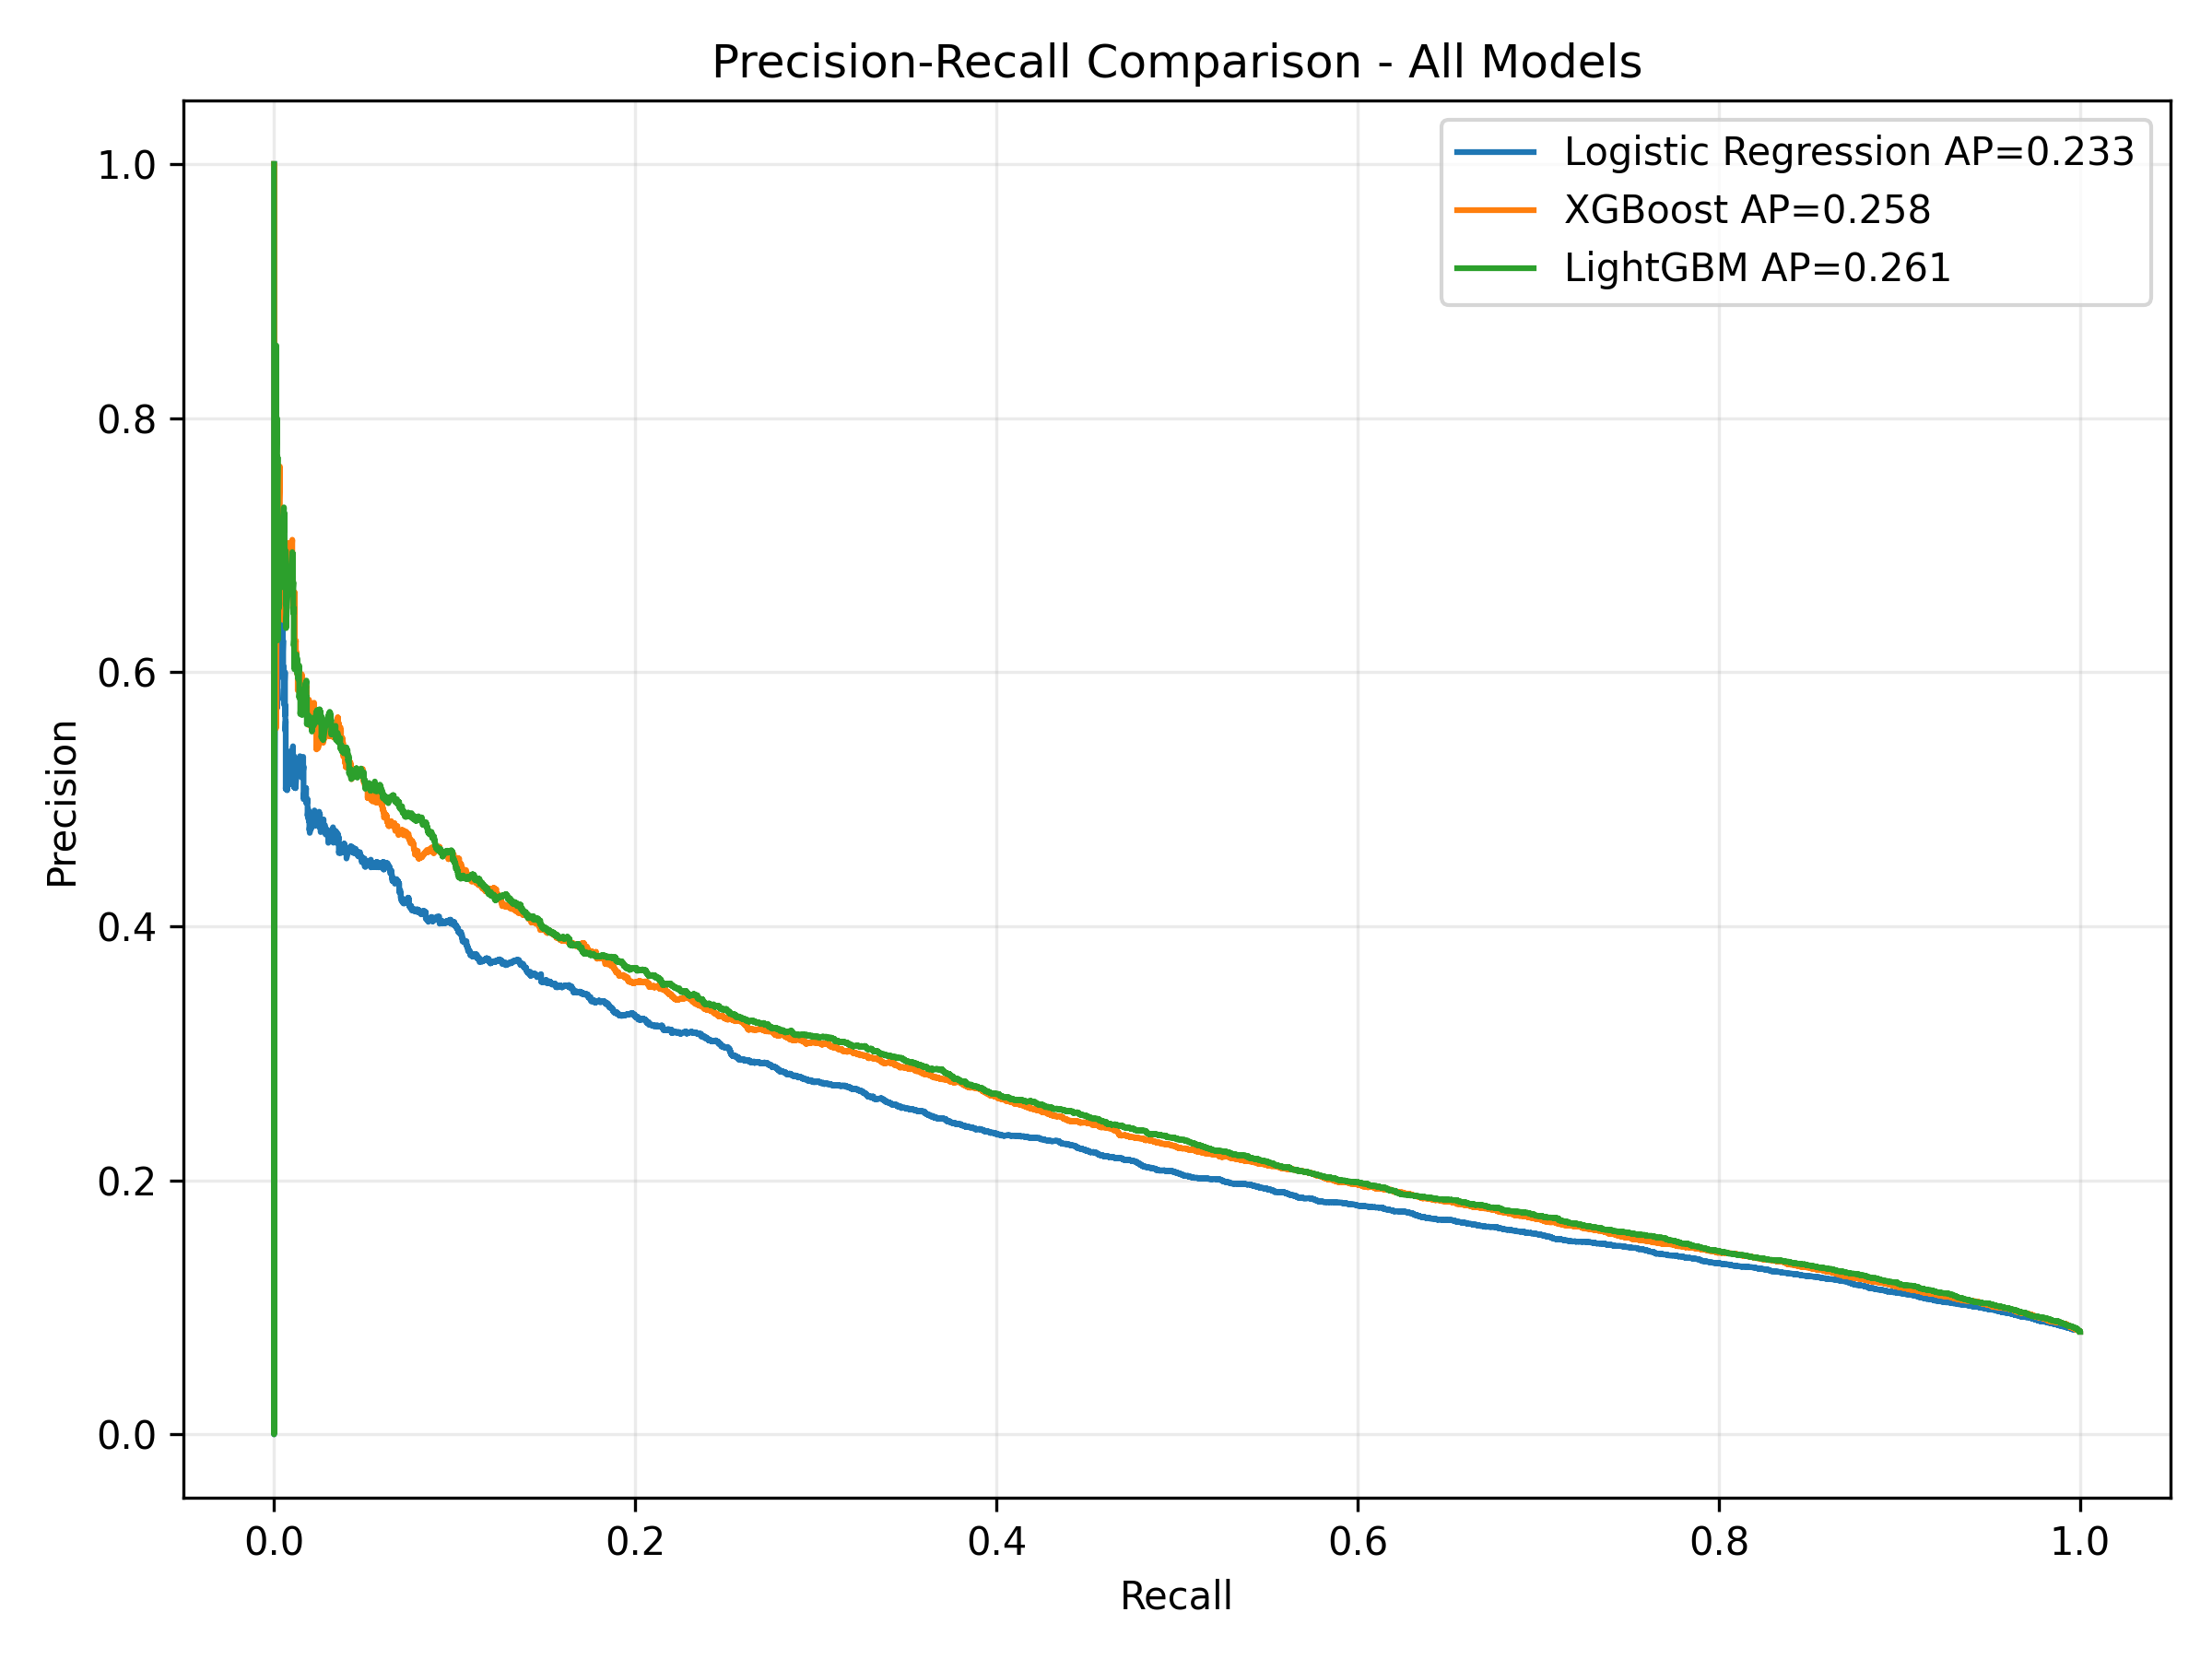
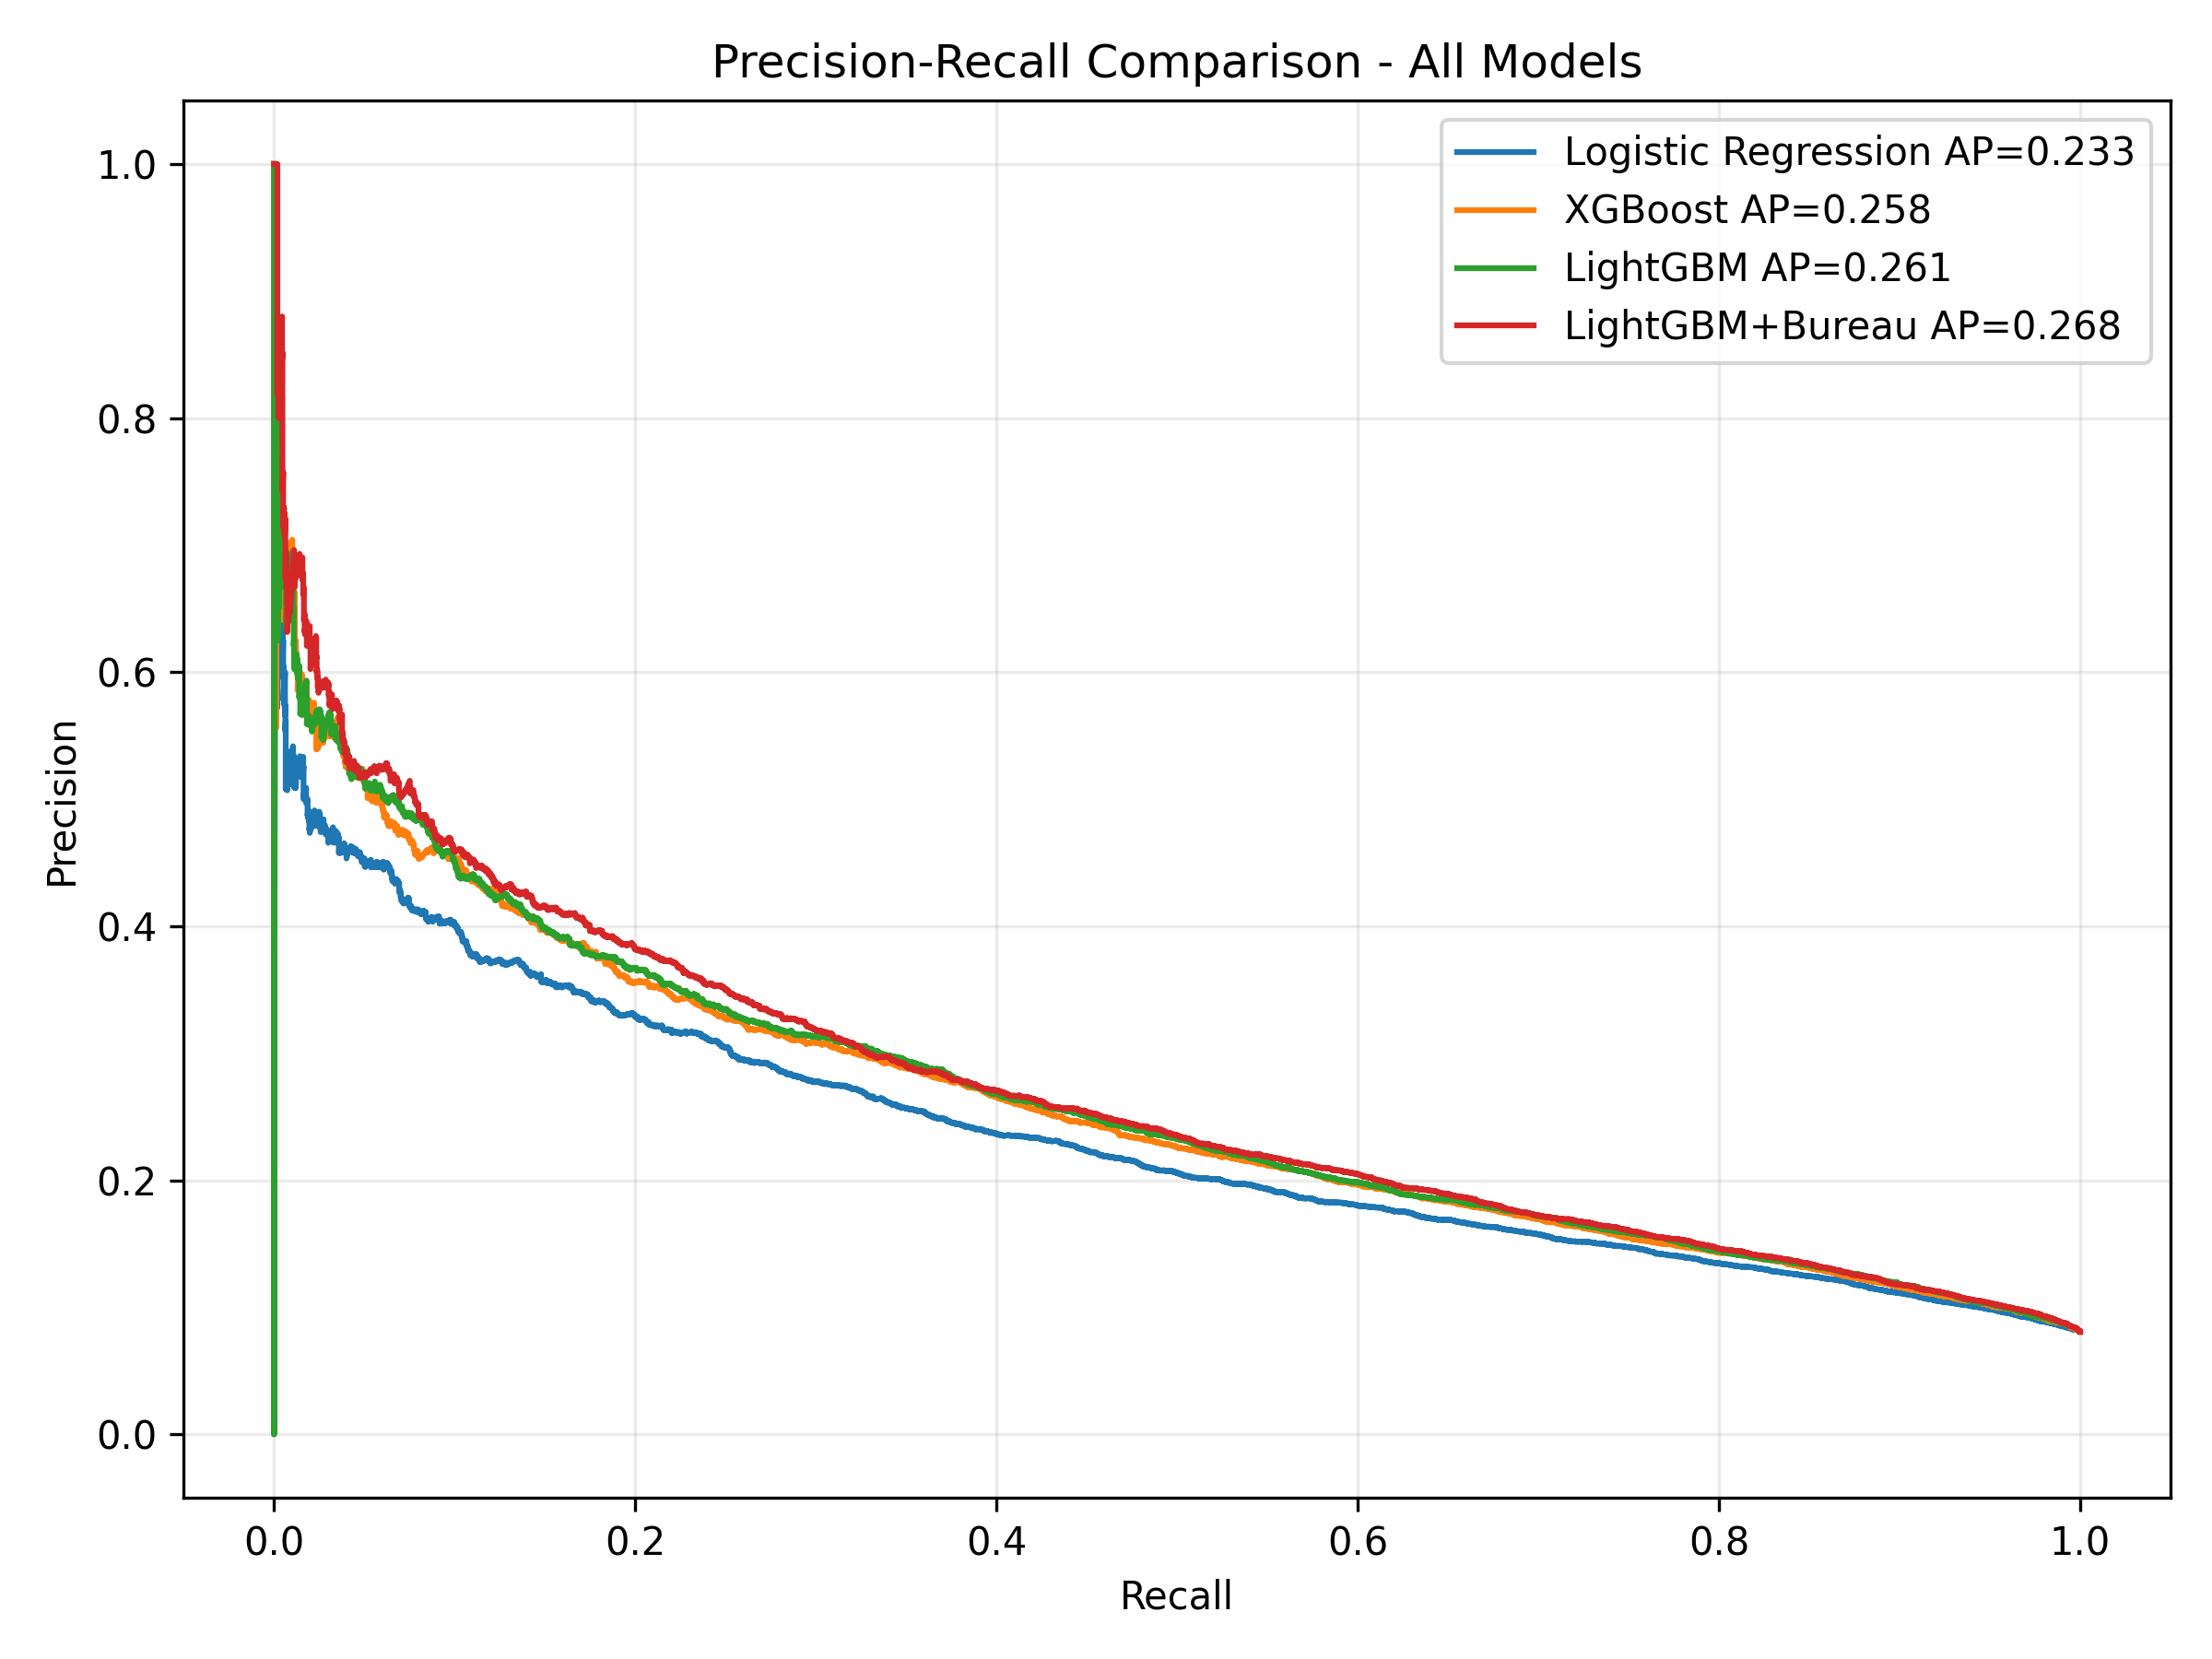
docs: final README polish — fix placeholders, AUC context, Mermaid, limitations

diff --git a/README.md b/README.md
@@ -1,9 +1,9 @@
 # Credit Risk Intelligence System
-End-to-end credit risk ML system predicting loan payment difficulty on 307K+ applicants, with LightGBM (AUC 0.77+), threshold optimization, fairness analysis, per-applicant SHAP explanations, and a live interactive Streamlit dashboard.
+End-to-end credit risk ML system predicting loan payment difficulty on 307K+ applicants, with LightGBM+Bureau (AUC 0.77+), threshold optimization, fairness analysis, per-applicant SHAP explanations, and a live interactive Streamlit dashboard.
 
 ![Python](https://img.shields.io/badge/Python-3.10.12-blue) ![Streamlit](https://img.shields.io/badge/Streamlit-Dashboard-red) ![License](https://img.shields.io/badge/License-MIT-green) ![Status](https://img.shields.io/badge/Status-Active-brightgreen)
 
-<a href="[DEPLOY URL]"><img src="https://img.shields.io/badge/LIVE%20DEMO-Open%20Dashboard-1B4F8A?style=for-the-badge" alt="Live Demo"></a>
+<a href="https://credit-risk-intelligence.streamlit.app"><img src="https://img.shields.io/badge/LIVE%20DEMO-Open%20Dashboard-1B4F8A?style=for-the-badge" alt="Live Demo"></a>
 
 ![Applicant Risk Prediction](screenshots/applicant_risk_prediction.png)
 
@@ -14,8 +14,13 @@ End-to-end credit risk ML system predicting loan payment difficulty on 307K+ app
 | Logistic Regression | 0.7507 | 0.2333 | N/A | 0.65 |
 | XGBoost | 0.7680 | 0.2575 | 0.7618 | 0.68 |
 | LightGBM | 0.7715 | 0.2608 | 0.7655 | 0.66 |
+| LightGBM+Bureau | 0.7746 | 0.2681 | 0.7702 | 0.66 |
 
-*CV AUC for LightGBM reflects 5-fold cross-validation on the Optuna-tuned hyperparameters, not the base configuration. XGBoost CV AUC reflects post-training cross-validation on the same stratified split.*
+*CV AUC for LightGBM and LightGBM+Bureau reflects 5-fold cross-validation on the Optuna-tuned hyperparameters, not the base configuration. XGBoost CV AUC reflects post-training cross-validation on the same stratified split.*
+
+### Context
+
+The Home Credit Default Risk Kaggle competition leaderboard shows single-table LightGBM approaches achieving ROC-AUC in the 0.78-0.80 range. This project achieves 0.77 on `application_train.csv` alone and 0.7746 with bureau feature integration. The remaining gap reflects the absence of the other relational tables (`previous_application`, `installments_payments`, `POS_CASH_balance`, `credit_card_balance`), which are acknowledged limitations. The project prioritises explainability, threshold decision framing, and fairness analysis over raw leaderboard score.
 
 ## Business Context
 
@@ -29,17 +34,19 @@ This system is designed as a review prioritization tool, not an automated decisi
 
 ```mermaid
 flowchart LR
-    A[Raw CSV\n307K rows] --> B[Data Cleaning\nvalidation + imputation setup]
-    B --> C[Feature Engineering\n13 domain features]
-    C --> D[Stratified\nTrain/Test Split]
-    D --> E[sklearn Pipeline\nColumnTransformer + Model]
-    E --> F1[Logistic Regression\nbaseline]
-    E --> F2[XGBoost\nscale_pos_weight]
-    E --> F3[LightGBM\nOptuna 50 trials]
-    F3 --> G[Threshold Optimizer\ncost-based]
-    G --> H[Fairness Analysis\ndisaggregated metrics]
-    H --> I[SHAP Explainability\nglobal + per-applicant]
-    I --> J[Streamlit Dashboard\nlive demo]
+    A["Raw CSV<br/>307K rows"] --> B["Data Cleaning<br/>validation + imputation setup"]
+    B --> C["Feature Engineering<br/>13 domain features"]
+    C --> D["Stratified<br/>Train/Test Split"]
+    D --> E["sklearn Pipeline<br/>ColumnTransformer + Model"]
+    E --> F1["Logistic Regression<br/>baseline"]
+    E --> F2["XGBoost<br/>scale_pos_weight"]
+    E --> F3["LightGBM<br/>Optuna 50 trials"]
+    E --> F4["LightGBM+Bureau<br/>13 bureau features"]
+    F3 --> G["Threshold Optimizer<br/>cost-based"]
+    F4 --> G
+    G --> H["Fairness Analysis<br/>disaggregated metrics"]
+    H --> I["SHAP Explainability<br/>global + per-applicant"]
+    I --> J["Streamlit Dashboard<br/>live demo"]
 ```
 
 ## Quickstart
@@ -53,7 +60,7 @@ make pipeline
 
 ## Live Demo
 
-> **[Open Live Dashboard →]([DEPLOY URL])**
+> **[Open Live Dashboard →](https://credit-risk-intelligence.streamlit.app)**
 > The dashboard displays pre-generated model comparison charts, fairness analysis,
 > and explainability reports without requiring local model training.
 > Applicant prediction and interactive threshold tools require local setup with
@@ -130,7 +137,9 @@ Credit-Risk-Intelligence-System/
 │   ├── fairness_report.csv
 │   ├── fairness_report.md
 │   ├── lgbm_model_metrics.json
+│   ├── lgbm_bureau_model_metrics.json
 │   ├── lgbm_threshold_analysis.csv
+│   ├── lgbm_bureau_threshold_analysis.csv
 │   ├── model_card.md
 │   ├── model_comparison.md
 │   └── model_comparison_full.csv
@@ -147,15 +156,18 @@ Credit-Risk-Intelligence-System/
 │   ├── explain_model.py
 │   ├── fairness_analysis.py
 │   ├── feature_engineering.py
+│   ├── feature_engineering_bureau.py
 │   ├── model_utils.py
 │   ├── threshold_optimizer.py
 │   ├── train_lightgbm.py
+│   ├── train_lightgbm_bureau.py
 │   ├── train_model.py
 │   └── train_xgboost.py
 ├── tests/
 │   ├── test_config_loader.py
 │   ├── test_data_cleaning.py
 │   ├── test_feature_engineering.py
+│   ├── test_feature_engineering_bureau.py
 │   └── test_threshold_optimizer.py
 ├── visuals/
 │   ├── calibration_plot.png
@@ -170,25 +182,27 @@ Credit-Risk-Intelligence-System/
 ├── config.yaml
 ├── Makefile
 ├── README.md
+├── requirements-deploy.txt
 └── requirements.txt
 ```
 
-## Limitations
+### Limitations
 
-This is a serious portfolio project, but it is not a production lending system.
+This project is a portfolio demonstration, not a production lending system.
 
-Current limitations:
+**Data scope:** Only `application_train.csv` is used as the primary feature source. Bureau credit history is integrated via `src/feature_engineering_bureau.py` (13 aggregated features). The remaining four relational tables — `previous_application`, `installments_payments`, `POS_CASH_balance`, and `credit_card_balance` — are not yet integrated. Full integration is the primary path to closing the remaining gap against leaderboard AUC benchmarks.
 
-- Only `application_train.csv` is used
-- `bureau.csv` integration is implemented in `src/train_lightgbm_bureau.py` and adds 13 aggregated credit history features (loan counts, overdue days, debt ratios). Run `make train-lgbm-bureau` after placing `bureau.csv` in `data/raw/`. Remaining relational tables (`previous_application`, `installments_payments`, `credit_card_balance`, `POS_CASH_balance`) are not yet integrated.
-- Precision remains low for the default class
-- SHAP values explain model behavior, not causal credit risk factors
-- Sensitive attributes require governance review before deployment
-- No deployed public app yet
-- No drift monitoring yet
-- Not suitable for automatic lending decisions
+**Modelling:** Precision for the default class remains low (approximately 0.17-0.18 at threshold 0.50), which is expected given an 8% base rate. At operating thresholds aligned to business cost scenarios (threshold 0.20-0.35), recall is high but precision remains low. This reflects the fundamental difficulty of the problem rather than a modelling failure.
 
-These limitations are important because real-world credit risk systems require stronger validation, monitoring, governance, fairness review, and human oversight.
+**Explainability:** SHAP values describe model behavior, not causal credit risk factors. Individual applicant explanations show which features contributed most to a specific prediction — they do not constitute a regulatory explanation of an adverse action.
+
+**Fairness:** The model exhibits a 0.24 Equalized Odds gap between male and female applicants at the lender-cost-optimal threshold. Removing `CODE_GENDER` reduces AUC by 0.0017. This tradeoff requires governance review before any regulated deployment. The fairness analysis in this project is diagnostic, not a mitigation.
+
+**Deployment:** This system is not suitable for automated credit decisioning. It is designed for manual review queue prioritization only, with a human analyst making the final credit determination.
+
+## Dataset
+
+[Home Credit Default Risk](https://www.kaggle.com/competitions/home-credit-default-risk) via Kaggle. Used for educational and portfolio purposes only.
 
 ## License
 

diff --git a/reports/model_comparison.md b/reports/model_comparison.md
@@ -2,13 +2,16 @@
 
 ## Summary
 
-The strongest holdout model is **LightGBM** with ROC-AUC 0.7715 and Average Precision 0.2608.
+The strongest holdout model is **LightGBM+Bureau** with ROC-AUC 0.7746 and Average Precision 0.2681.
 
 | Model | AUC-ROC | Average Precision | Tuned CV AUC | F1-Default | Precision-Default | Recall-Default | Optimal Threshold | FP at Optimal | FN at Optimal |
 | --- | --- | --- | --- | --- | --- | --- | --- | --- | --- |
 | Logistic Regression | 0.7507 | 0.2333 |  | 0.2623 | 0.1626 | 0.6777 | 0.6500 | 7384 | 2782 |
 | XGBoost | 0.7680 | 0.2575 | 0.7618 | 0.2877 | 0.1855 | 0.6401 | 0.6800 | 4897 | 3086 |
 | LightGBM | 0.7715 | 0.2608 | 0.7655 | 0.2795 | 0.1754 | 0.6878 | 0.6600 | 6498 | 2762 |
+| LightGBM+Bureau | 0.7746 | 0.2681 | 0.7702 | 0.2826 | 0.1783 | 0.6810 | 0.6600 | 6506 | 2739 |
+
+LightGBM+Bureau achieved +0.0032 AUC improvement from bureau feature integration
 
 
 ## Calibration Interpretation